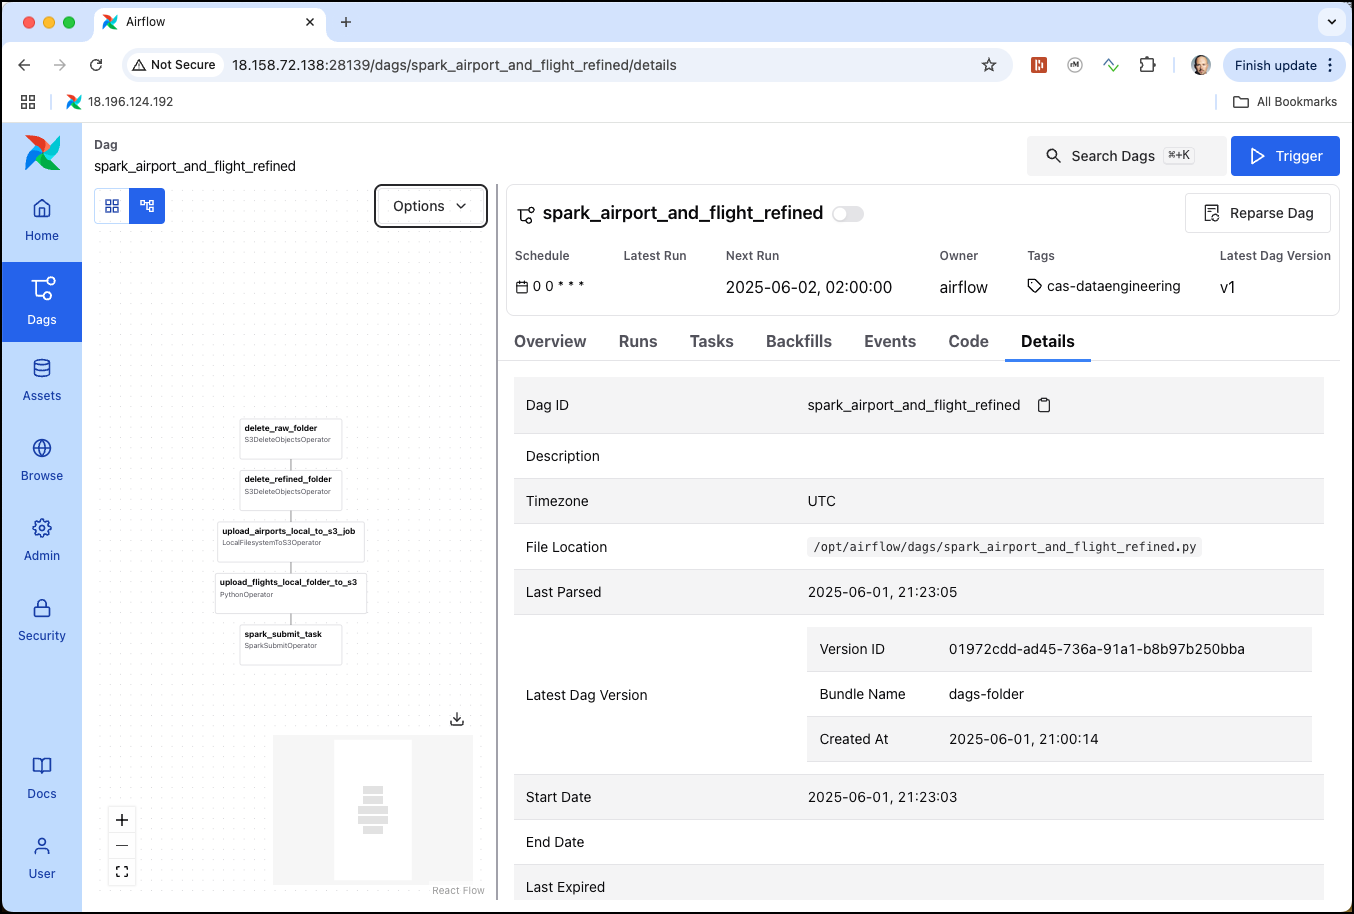
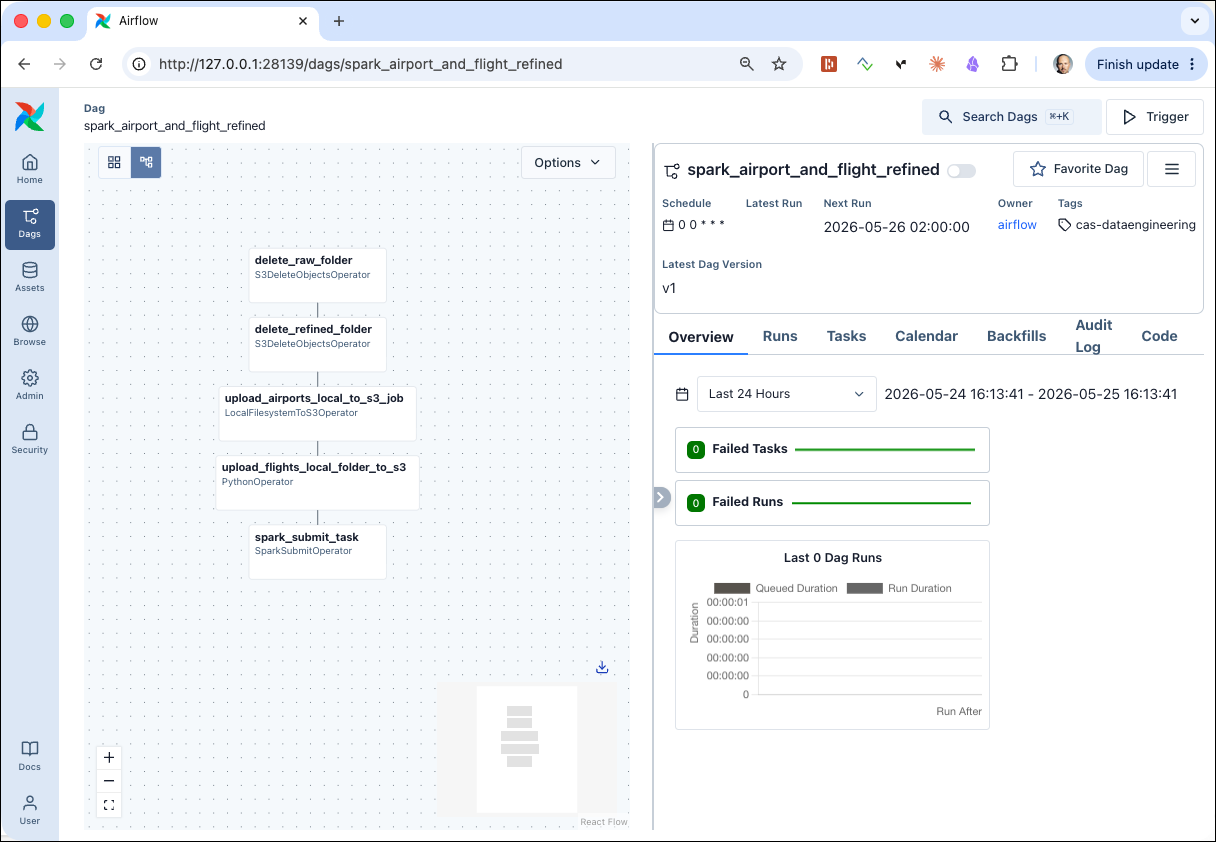
update airflow workshop

diff --git a/11a-scheduling-with-airflow-3.x/README.md b/11a-scheduling-with-airflow-3.x/README.md
@@ -11,7 +11,7 @@ In this workshop we will see how we can use [Apache Airflow](http://airflow.apac
 - [Create the Airflow DAG](#create-the-airflow-dag)
 - [Create the Airflow Connection objects](#create-the-airflow-connection-objects)
 - [Activating and starting the Airflow DAG](#activating-and-starting-the-airflow-dag)
-- [Forcing an error to see it in the Airflow UI](#forcing-and-error-to-see-it-in-the-airflow-ui)
+- [Forcing an error to see it in the Airflow UI](#forcing-an-error-to-see-it-in-the-airflow-ui)
 
 ## What you will learn
 
@@ -25,30 +25,31 @@ In this workshop we will see how we can use [Apache Airflow](http://airflow.apac
 
 - The **Data Platform** described [here](../00-environment) is running and accessible
 - Workshop 5 ([Creating and running a self-contained Spark Application](../05-spark-application)) completed — the `prep_refined.py` Spark script is reused here
-- Airport and flight data available in MinIO (instructions provided if needed)
 
 ## Create the S3 bucket, if not available
 
-Create the flight bucket using the `mc mb` command from a terminal window
+Create the flight bucket using the `s3cmd mb` command from a terminal window
 
 ```bash
-docker exec -ti minio-mc mc mb minio-1/flight-bucket
+docker exec -ti awscli s3cmd mb s3://flight-bucket
 ```
+
+The data itself will be uploaded by the Airflow DAG below.
 
 ## Create the Spark Python program
 
-For the Spark application we reuse the application created in [Workshop 5 - Creating and running a self-contained Spark Application](../05-spark-application). But for Airflow to run it, we will upload it into the `flight-bucket` bucket on S3 (MinIO).
+For the Spark application we reuse the application created in [Workshop 5 - Creating and running a self-contained Spark Application](../05-spark-application). But for Airflow to run it, we will upload it to the `flight-bucket` bucket on S3 (MinIO).
 
-First let's create a folder for the Spark application 
+First, let's create a folder for the Spark application
 
 ```bash
 cd $DATAPLATFORM_HOME
 mkdir -p ./data-transfer/app
 ```
 
-Create a file, e.g. `prep_refined.py` and save it into the `./data-transfer/app` folder
+Create a file, e.g. `prep_refined.py`, and save it into the `./data-transfer/app` folder.
 
-Use Nano editor to edit the file `nano ./data-transfer/app/prep_refined.py` and copy the following code into editor window.
+Use the Nano editor to edit the file `nano ./data-transfer/app/prep_refined.py` and copy the following code into the editor window.
 
 ```python
 import argparse
@@ -67,8 +68,15 @@ def main(s3_bucket: str, s3_raw_path: str, s3_refined_path: str):
     s3_refined_uri = f"s3a://{s3_bucket}/{s3_refined_path}" 
     print(f"Reading data from raw {s3_raw_uri} and writing to refined {s3_refined_uri}")
     
+    airportSchema = "`id` INTEGER, `ident` STRING, `type` STRING, `name` STRING, \
+        `latitude_deg` DOUBLE, `longitude_deg` DOUBLE, `elevation_ft` INTEGER, \
+        `continent` STRING, `iso_country` STRING, `iso_region` STRING, \
+        `municipality` STRING, `scheduled_service` STRING, `gps_code` STRING, \
+        `iata_code` STRING, `local_code` STRING, `home_link` STRING, \
+        `wikipedia_link` STRING, `keywords` STRING"
+
     airportsRawDF = spark.read.csv(f"{s3_raw_uri}/airports", \
-    			sep=",", inferSchema="true", header="true")
+    			sep=",", inferSchema="false", header="true", schema=airportSchema)
     airportsRawDF.write.mode("overwrite").json(f"{s3_refined_uri}/airports")
 
     flightSchema = """`year` INTEGER, `month` INTEGER, `dayOfMonth` INTEGER,  `dayOfWeek` INTEGER, `depTime` INTEGER, `crsDepTime` INTEGER, `arrTime` INTEGER, `crsArrTime` INTEGER, `uniqueCarrier` STRING, `flightNum` STRING, `tailNum` STRING, `actualElapsedTime` INTEGER,\
@@ -96,7 +104,7 @@ if __name__ == "__main__":
     parser.add_argument("--s3-refined-path", required=True, help="Path in the S3 bucket to the refined data")
     args = parser.parse_args()
 
-    main(args.s3_bucket, args.s3_raw_path, args.s3_refined_path)
+    main(args.s3_bucket, args.s3_raw_path, args.s3_refined_path)   
 ```
 
 Save it by hitting `Ctrl-O` and exit by hitting `Ctrl-X`.
@@ -107,21 +115,21 @@ Now let's make it available in S3 by uploading it to the `app` folder in the `fl
 
 ```bash
 cd $DATAPLATFORM_HOME
-docker exec -ti minio-mc mc cp --recursive /data-transfer/app/ minio-1/flight-bucket/app
+docker exec -ti awscli s3cmd put --recursive /data-transfer/app/ s3://flight-bucket/app/
 ```
 
 ## Create the Airflow DAG
 
 Creating an Airflow DAG (Directed Acyclic Graph) involves defining a workflow as a Python script. 
 
-Let's create a python script by creating a file `spark_airport_and_flight_refined.py` in the `scripts/airflow/dags` folder within the dataplatform root. From there the running Airflow instance will automatically pickup the DAG (after maximum 60s) and load it at runtime. In a terminal window perform
+Let's create a Python script by creating a file `spark_airport_and_flight_refined.py` in the `scripts/airflow/dags` folder within the dataplatform root. From there the running Airflow instance will automatically pick up the DAG (after maximum 60s) and load it at runtime. In a terminal window perform
 
 ```bash
 cd $DATAPLATFORM_HOME/scripts/airflow/dags
 nano spark_airport_and_flight_refined.py
 ```
 
-copy/paste the following python script into the editor window
+Copy/paste the following Python script into the editor window
 
 ```python
 """
@@ -225,34 +233,34 @@ with DAG(
 
 Save it by hitting `Ctrl-O` and exit by hitting `Ctrl-X`.
 
-Navigate to <http://dataplatform:28139> and login as `airflow` and password `abc123!`. Click on **Dags** in the legt menu and reload it until the `spark_airport_and_flight_refined` shows up in the details pane to the right.
+Navigate to <http://dataplatform:28139> and log in as `airflow` with password `abc123!`. Click on **Dags** in the left menu and reload it until the `spark_airport_and_flight_refined` shows up in the details pane to the right.
 
 ![](./images/airflow-with-dag.png)
 
-The loading of the DAG **was successfull!**. 
+The loading of the DAG **was successful!**.
 
 If there is an error in the script, you will see a red error icon just right to the **Dags** menu item. 
 
 ![](./images/airflow-with-dag-error.png)
 
-Click on the error icon and expand the drop-down to see the error message (I just misstyped the first import statment to force this error).
+Click on the error icon and expand the drop-down to see the error message (I just mistyped the first import statement to force this error).
 
 ![](./images/airflow-with-dag-error1.png)
 
-With the script beeing loaded successfully, click on the `spark_airport_and_flight_refined` link to see the details page of the DAG.
+With the script being loaded successfully, click on the `spark_airport_and_flight_refined` link to see the details page of the DAG.
 
 ![](./images/airflow-with-dag-details.png)
  
 This is the page where we will later see the task executions and the status of each execution. 
-Currently the DAG is in **paused** state, which can be seen by the **toogle button** right to the name of the DAG. We can not yet **Unpause** it, because we first have to create the two connections used in the DAG. 
+Currently the DAG is in **paused** state, which can be seen by the **toggle button** to the right of the DAG name. We cannot yet **Unpause** it, because we first have to create the two connections used in the DAG.
 
-We can also use the various Tabs on the detail window to navigate to the **Code** view (to see the python code) or to the **Logs** to see the log statement for each task execution, once the DAG has run at least once.
+We can also use the different Tabs on the detail window to navigate to the **Code** view (to see the python code) or to the **Logs** to see the log statement for each task execution, once the DAG has run at least once.
 
 Click on the icon in the top left corner to view a **Graphical** representation of the DAG. You can zoom in using the **+/-** buttons and change to the **Top to Bottom** orientation by expanding the **Options** drop-down and select the **Graph Direction** accordingly.
 
 ![](./images/airflow-with-dag-details-graph.png)
 
-You can see in the graph, that our Airflow DAG will first delete the `raw` and `refined` folders (if they exist), then upload the airport & flight data and last but not least start the Spark application to create the refined data.
+You can see in the graph that our Airflow DAG will first delete the `raw` and `refined` folders (if they exist), then upload the airport & flight data, and last but not least, start the Spark application to create the refined data.
 
 To perform the different steps, we have used various predefined operators in the code, such as 
 
@@ -271,18 +279,18 @@ In Airflow, you can create connections to various external systems, including S3
     
 First let's create the S3 connection. 
 
-Naviate to the **Admin** item in the menu to the left and click on **Connections**. Create a new connection by  clicking on the **+ Add Connection** button. Fill in following connection details:
+Navigate to the **Admin** item in the menu to the left and click on **Connections**. Create a new connection by clicking on the **+ Add Connection** button. Fill in the following connection details:
 
   * **Connection ID**: `aws-s3`
-  * **Connection Type**: Select `aws` as the connection type.
+  * **Connection Type**: Select `Amazon Web Services` as the connection type.
   * **AWS Access Key ID**: `admin`
-  * **AWS Secret Access Key**: `abc123!abc123!`
+  * **AWS Secret Access Key**: `abc123abc123!`
   
   * **Extra Fields JSON**: Expand the drop-down to provide additional configuration options in JSON format. Add the following JSON document    
 
 	```json    
 	{
-		"endpoint_url": "http://minio-1:9000",
+		"endpoint_url": "http://rustfs-1:9000",
 		"region_name": "us-east-1"
 	}
 	```
@@ -293,10 +301,10 @@ Save the Connection by clicking on **Save** twice.
 
 Now let's do the same for the Spark cluster connection
 
-Clicking again on the  **+ Add Connection** button to create another connection. 
+Click again on the **+ Add Connection** button to create another connection.
 
   * **Connection ID**: `spark-cluster`
-  * **Connection Type**: Select `spark` as the connection type.
+  * **Connection Type**: Select `Spark` as the connection type.
   * **Host**: `spark://spark-master:7077`
 
 Save the Connection by clicking on **Save**. 
@@ -330,23 +338,23 @@ After a while all 5 should be green with the checkmark, indicating that the DAG 
 
 ![](./images/airflow-with-dag-details-run2.png)
 
-> **What you should see:** All five task boxes turn dark green from left to right as each task completes. The total wall-clock time is typically 1–3 minutes, dominated by the Spark job at the end of the pipeline.
+> **What you should see:** All five task boxes turn dark green from left to right as each task completes. The total wall-clock time is typically below 1 minute, dominated by the Spark job at the end of the pipeline.
 
-> **What just happened?** Airflow executed the five tasks in the dependency order defined by the `>>` chain: it deleted the existing `raw/` and `refined/` folders in MinIO, uploaded the airports CSV and all flights CSV files, and finally submitted the `prep_refined.py` Spark application using `SparkSubmitOperator`. The Spark job fetched the script from MinIO (`s3a://flight-bucket/app/prep_refined.py`), read the raw CSV files, applied the schema transformations, and wrote the refined Parquet files back to MinIO. Airflow tracked each task's status and dependencies — if any task had failed, downstream tasks would have been automatically skipped.
+> **What just happened?** Airflow executed the five tasks in the dependency order defined by the `>>` chain: it deleted the existing `raw/` and `refined/` folders in Object Storage, uploaded the airports CSV and all flights CSV files, and finally submitted the `prep_refined.py` Spark application using `SparkSubmitOperator`. The Spark job fetched the script from Object Storage (`s3a://flight-bucket/app/prep_refined.py`), read the raw CSV files, applied the schema transformations, and wrote the refined Parquet files back to Object Storage. Airflow tracked each task's status and dependencies — if any task had failed, downstream tasks would have been automatically skipped.
 
 Click on one of the dark green cells and navigate to the **Logs** tab to see the log of the task execution
 
 ![](./images/airflow-with-dag-details-run3.png)
 
-This is very helpful for debugging, should you run into an error with one of the tasks. We can see that the logs are stored in S3 (in the `admin-bucket` in MinIO).
+This is very helpful for debugging, should you run into an error with one of the tasks. We can see that the logs are stored in S3 (in the `admin-bucket`).
 
-Use the Minio Console to check that the raw data has been loaded an the refined data created.
+Use the RustFS Console to check that the raw data has been loaded and the refined data created.
 
-## Forcing and error to see it in the Airflow UI
+## Forcing an error to see it in the Airflow UI
 
 You can easily simulate a problem by changing one of the Airflow connections with an invalid value. 
 
-Navigate to the S3 connection `aws-s3` and replace the **AWS Access Key ID** with `minio` (instead of `admin`). Click on **Save** to make it active. 
+Navigate to the S3 connection `aws-s3` and replace the **AWS Access Key ID** with `manager` (instead of `admin`). Click on **Save** to make it active. 
 
 Now navigate back to the detail page for the `spark_airport_and_flight_refined` DAG and click on the **> Trigger** button to trigger the DAG once again and confirm the **single run** on the pop-up window. 
 
@@ -375,11 +383,11 @@ Click on **Clear Task Instance** button and on the pop-up dialog click **Confirm
 
 ![](./images/airflow-with-dag-details-error3.png)
 
-If the taks run successfully, then you can now also run the other 4 downstream tasks. 
+If the task runs successfully, you can now also run the other 4 downstream tasks.
 
 ![](./images/airflow-with-dag-details-error4.png)
 
-Click on the large red bar representing the task (right above the green cell for the first task) to see the details for this job run. Here also click on **Clear Run** button and on the pop-up window select **Clear only failed tasks**
+Click on the bar representing the previously failed job run (right above the green cell for the first task) to see the details for this job run. Here also click on **Clear Dag Run** button and on the pop-up window select **Clear only failed tasks**
 
 ![](./images/airflow-with-dag-details-error5.png)
 
@@ -389,4 +397,4 @@ This will run the other 4 tasks, after the first as well and they should all run
 
 > **What you should see:** The failed task turns green after clearing, and the remaining four downstream tasks execute automatically in sequence, all completing successfully.
 
-> **What just happened?** Airflow's "Clear" operation reset the task instance state from FAILED back to NONE, making it eligible to run again in the next scheduler cycle. Because the S3 connection was fixed before clearing, the task can now authenticate successfully. Airflow then automatically triggered the downstream tasks that were blocked by the failure — this is Airflow's DAG dependency model in action: upstream failures cascade to downstream tasks, and upstream recovery automatically unblocks them.
+> **What just happened?** Airflow's "Clear" operation reset the task instance state from FAILED back to NONE, making it eligible to run again in the next scheduler cycle. Because the S3 connection was fixed before clearing, the task can now authenticate successfully. 
